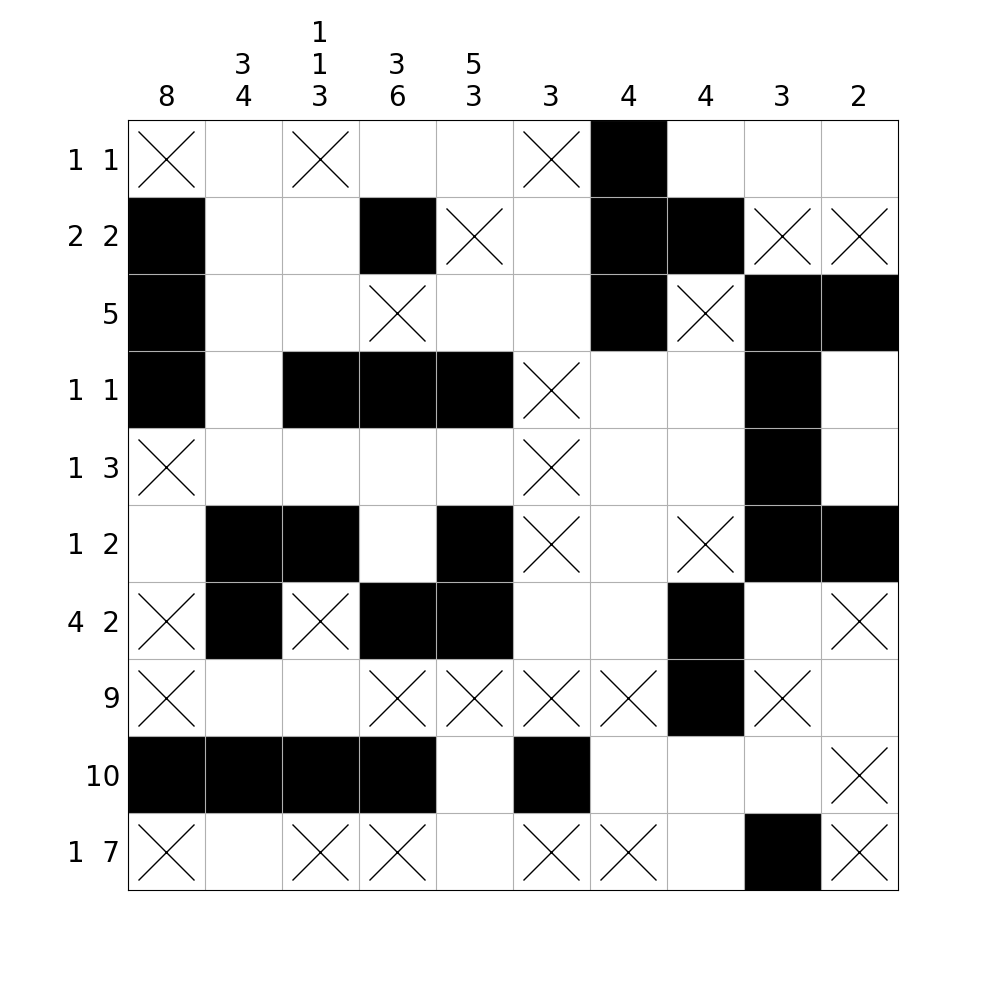
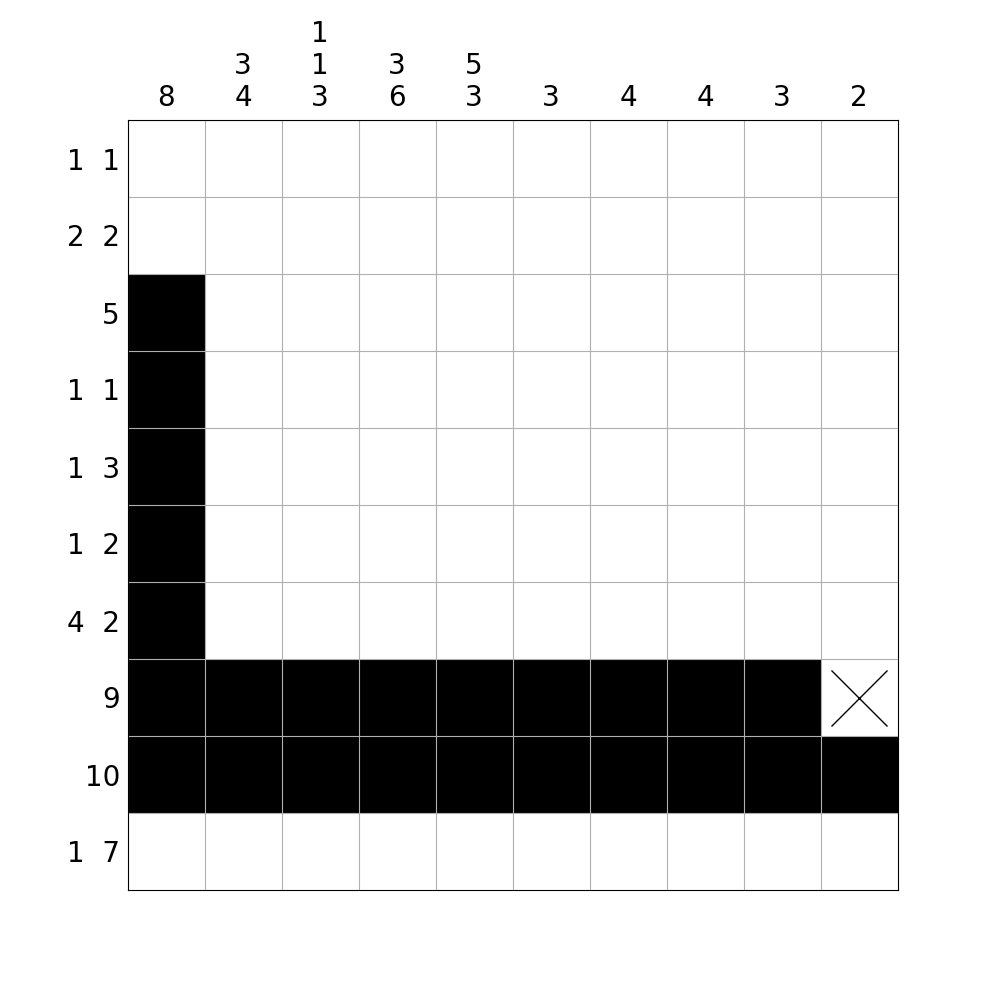
Added update logic

diff --git a/nonogram.py b/nonogram.py
@@ -5,6 +5,78 @@ import numpy as np
 import matplotlib.pyplot as plt
 from matplotlib import colors
 
+from itertools import chain, combinations
+
+
+def powerset(iterable):
+    s = list(iterable)
+    return chain.from_iterable(combinations(s, r) for r in range(len(s) + 1))
+
+
+def summarize(arr):
+    summary = []
+    curr = 0
+    for val in arr:
+        if val == 1:
+            curr += 1
+        elif val == 0:
+            if curr != 0:
+                summary.append(curr)
+                curr = 0
+        else:  # val == -1
+            assert False, 'Error: arr should only have 0 or 1'
+    if curr != 0:
+        summary.append(curr)
+        curr = 0
+    return summary
+
+
+def update(state, axis, idx, true_summary):
+    if axis == 'C':
+        curr = state[:, idx]
+    elif axis == 'R':
+        curr = state[idx, :]
+    else:
+        assert False, 'Error: axis should be C or R'
+    print(f'\nUpdating {axis}{idx}')
+    print(f'Current value: {curr}')
+
+    pos = np.where(curr == 1)[0]
+    unknown = np.where(curr == -1)[0]
+
+    if len(unknown) == 0:
+        return False
+
+    pset = powerset(unknown)
+
+    variance = np.zeros(len(unknown), dtype=int)
+    variants = 0
+    for p in pset:
+        test = np.zeros(len(curr), dtype=int)
+        test[list(p)] = 1
+        test[pos] = 1
+        summary = summarize(test)
+        if np.array_equal(summary, true_summary):
+            variance += test[unknown]
+            variants += 1
+
+    print(f'Variance: {variance}')
+    print(f'Variants: {variants}')
+
+    if variants == 0:
+        assert False, 'Error: no solution'
+
+    new_pos = unknown[np.where(variance == variants)]
+    new_neg = unknown[np.where(variance == 0)]
+
+    if len(new_pos) + len(new_neg) == 0:
+        return False
+
+    curr[new_pos] = 1
+    curr[new_neg] = 0
+    print(f'New value: {curr}')
+    return True
+
 
 def validate(cols, rows):
     length = len(cols)
@@ -50,7 +122,7 @@ def display(state, cols, rows):
     ax.imshow(state, cmap=colors.ListedColormap(['white', 'white', 'black']))
     for i in range(state.shape[0]):
         for j in range(state.shape[1]):
-            if state[i][j] == -1:
+            if state[i][j] == 0:
                 ax.plot(j, i, marker='x', color='black', markersize=40)
 
     ax.set_xlim(-0.5, state.shape[0] - 0.5)
@@ -80,8 +152,16 @@ if __name__ == '__main__':
     filename = sys.argv[1]
     cols, rows = extract(filename)
 
-    state = np.zeros((len(cols), len(rows)), dtype=int)
+    state = -np.ones((len(cols), len(rows)), dtype=int)
+    # np.random.seed(0)
     # state = np.random.randint(-1, 2, size=(len(cols), len(rows)))
+
+    print(state)
+    display(state, cols, rows)
+
+    update(state, 'C', 0, cols[0])
+    update(state, 'R', 7, rows[7])
+    update(state, 'R', 8, rows[8])
 
     print(state)
     display(state, cols, rows)
